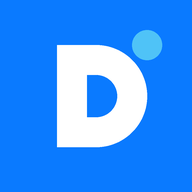
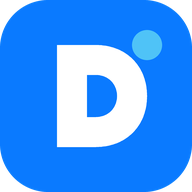
Add files via upload

diff --git a/index.html b/index.html
@@ -8,7 +8,11 @@
 <meta name="apple-mobile-web-app-title" content="DANSHA">
 <meta name="apple-mobile-web-app-status-bar-style" content="black-translucent">
 <meta name="theme-color" content="#F2F4F8">
[1 lines of base64/hex data omitted]
+<meta name="application-name" content="DANSHA">
+<link rel="manifest" href="manifest.webmanifest">
+<link rel="icon" type="image/svg+xml" href="icon.svg">
+<link rel="icon" type="image/png" sizes="32x32" href="favicon-32.png">
+<link rel="apple-touch-icon" href="apple-touch-icon.png">
 <title>DANSHA Learning</title>
 <style>
 :root{--bl:#0A7AFF;--bl2:#4FC3F7;--bg:#F2F4F8;--card:#fff;--tx:#0B1220;--tx2:#5B6575;--sep:rgba(60,70,90,.14);--ok:#13875A;--no:#D6402B;--gold:#E0A100;--glass:rgba(255,255,255,.62);--gb:rgba(255,255,255,.6);--sh:0 8px 30px rgba(10,30,70,.10);color-scheme:light}
@@ -234,7 +238,7 @@ const SR=window.SpeechRecognition||window.webkitSpeechRecognition;
 let S={xp:0,streak:0,last:"",n:0,today:0,d:"",goal:20,silent:false,miss:{},ok:{},hist:{},errs:[],name:"",level:"",why:"",rate:1,theme:"system",ob:0,micAsk:0,desc:"",photo:"",pitch:1,vname:"",bg:"",lock:"none",lockHash:"",lockSalt:"",cred:"",autolock:60,avatar:null,aiOn:false,aiKey:"",aiModel:""};
 try{Object.assign(S,JSON.parse(localStorage.getItem("dansha3")||"{}"))}catch(e){}
 const save=()=>{try{localStorage.setItem("dansha3",JSON.stringify(S))}catch(e){}};
-if(!S.testAi){S.testAi=1;S.aiOn=true;S.aiKey="sample"}
+if(S.aiKey==="sample"){S.aiOn=false;S.aiKey=""}S.testAi=1;
 if(S.d!==day()){S.d=day();S.today=0}
 if(S.last&&S.last!==day()&&S.last!==yest())S.streak=0;
 save();
@@ -535,7 +539,6 @@ function nextQ(){
     dt.onkeydown=e=>{if(e.key==="Enter"&&dt.value.trim())go2()};return}
   let head="",ans,pool;
   if(t==="n"){
-  
     const ks=en.toLowerCase().split(" "),toks=ex.split(" ").map(w=>{const c=w.toLowerCase().replace(/[^a-z]/g,"");return`<span class="w">${ks.some(k=>c.startsWith(k))?"<mark>"+w+"</mark>":w}</span>`}).join(" ");
     head=`<p class="lab">Nouveau mot</p><h2>« ${en} » signifie…</h2><div class="ex"><button class="spk" id="sp" aria-label="Écouter">${ic("spk")}</button><div>${toks}</div></div>`;ans=fr;pool=ALLW.map(p=>p[1]);if(vo)speak(ex)}
   else if(t==="g"){head=`<p class="lab">Grammaire · ${esc(cur.nm)}</p><h2>Complétez</h2><p class="big" style="font-size:22px">${cur.p[2]}</p>`;ans=cur.p[0];pool=cur.o}
@@ -951,6 +954,16 @@ async function aiTurn(t){
   const msgs=[];chat.slice(-14).forEach(c=>{const r=c.w==="em"?"assistant":"user",l=msgs[msgs.length-1];if(l&&l.role===r)l.content+="\n"+c.en;else msgs.push({role:r,content:c.en})});while(msgs.length&&msgs[0].role!=="user")msgs.shift();
   try{const o=parseAI(await callAI(msgs,emmaSys(),400));ty.remove();const c={w:"em",en:o.en,fr:o.fr};chat.push(c);if($("#msgs"))bubble(c);if(!S.silent)speak(o.en);busy=false;chat.cur=o.ch;if(tab==="talk")chips(o.ch)}
   catch(e){ty.remove();busy=false;toast(aiErr(e));const o=free(t);say(o.lines,o.ch)}
+}
+/* ---- Hors ligne : service worker (HTTPS ou localhost) ---- */
+if("serviceWorker" in navigator&&/^https?:$/.test(location.protocol)){
+  addEventListener("load",()=>{
+    const had=!!navigator.serviceWorker.controller;
+    navigator.serviceWorker.register("sw.js").then(r=>{
+      r.addEventListener("updatefound",()=>{const w=r.installing;if(w)w.addEventListener("statechange",()=>{if(w.state==="activated"&&!had)toast("DANSHA est prêt : il fonctionne maintenant sans Internet.")})});
+    }).catch(()=>{});
+    try{if(navigator.storage&&navigator.storage.persist)navigator.storage.persist().catch(()=>{})}catch(e){}
+  });
 }
 /* ---- Boot ---- */
 go("home");
